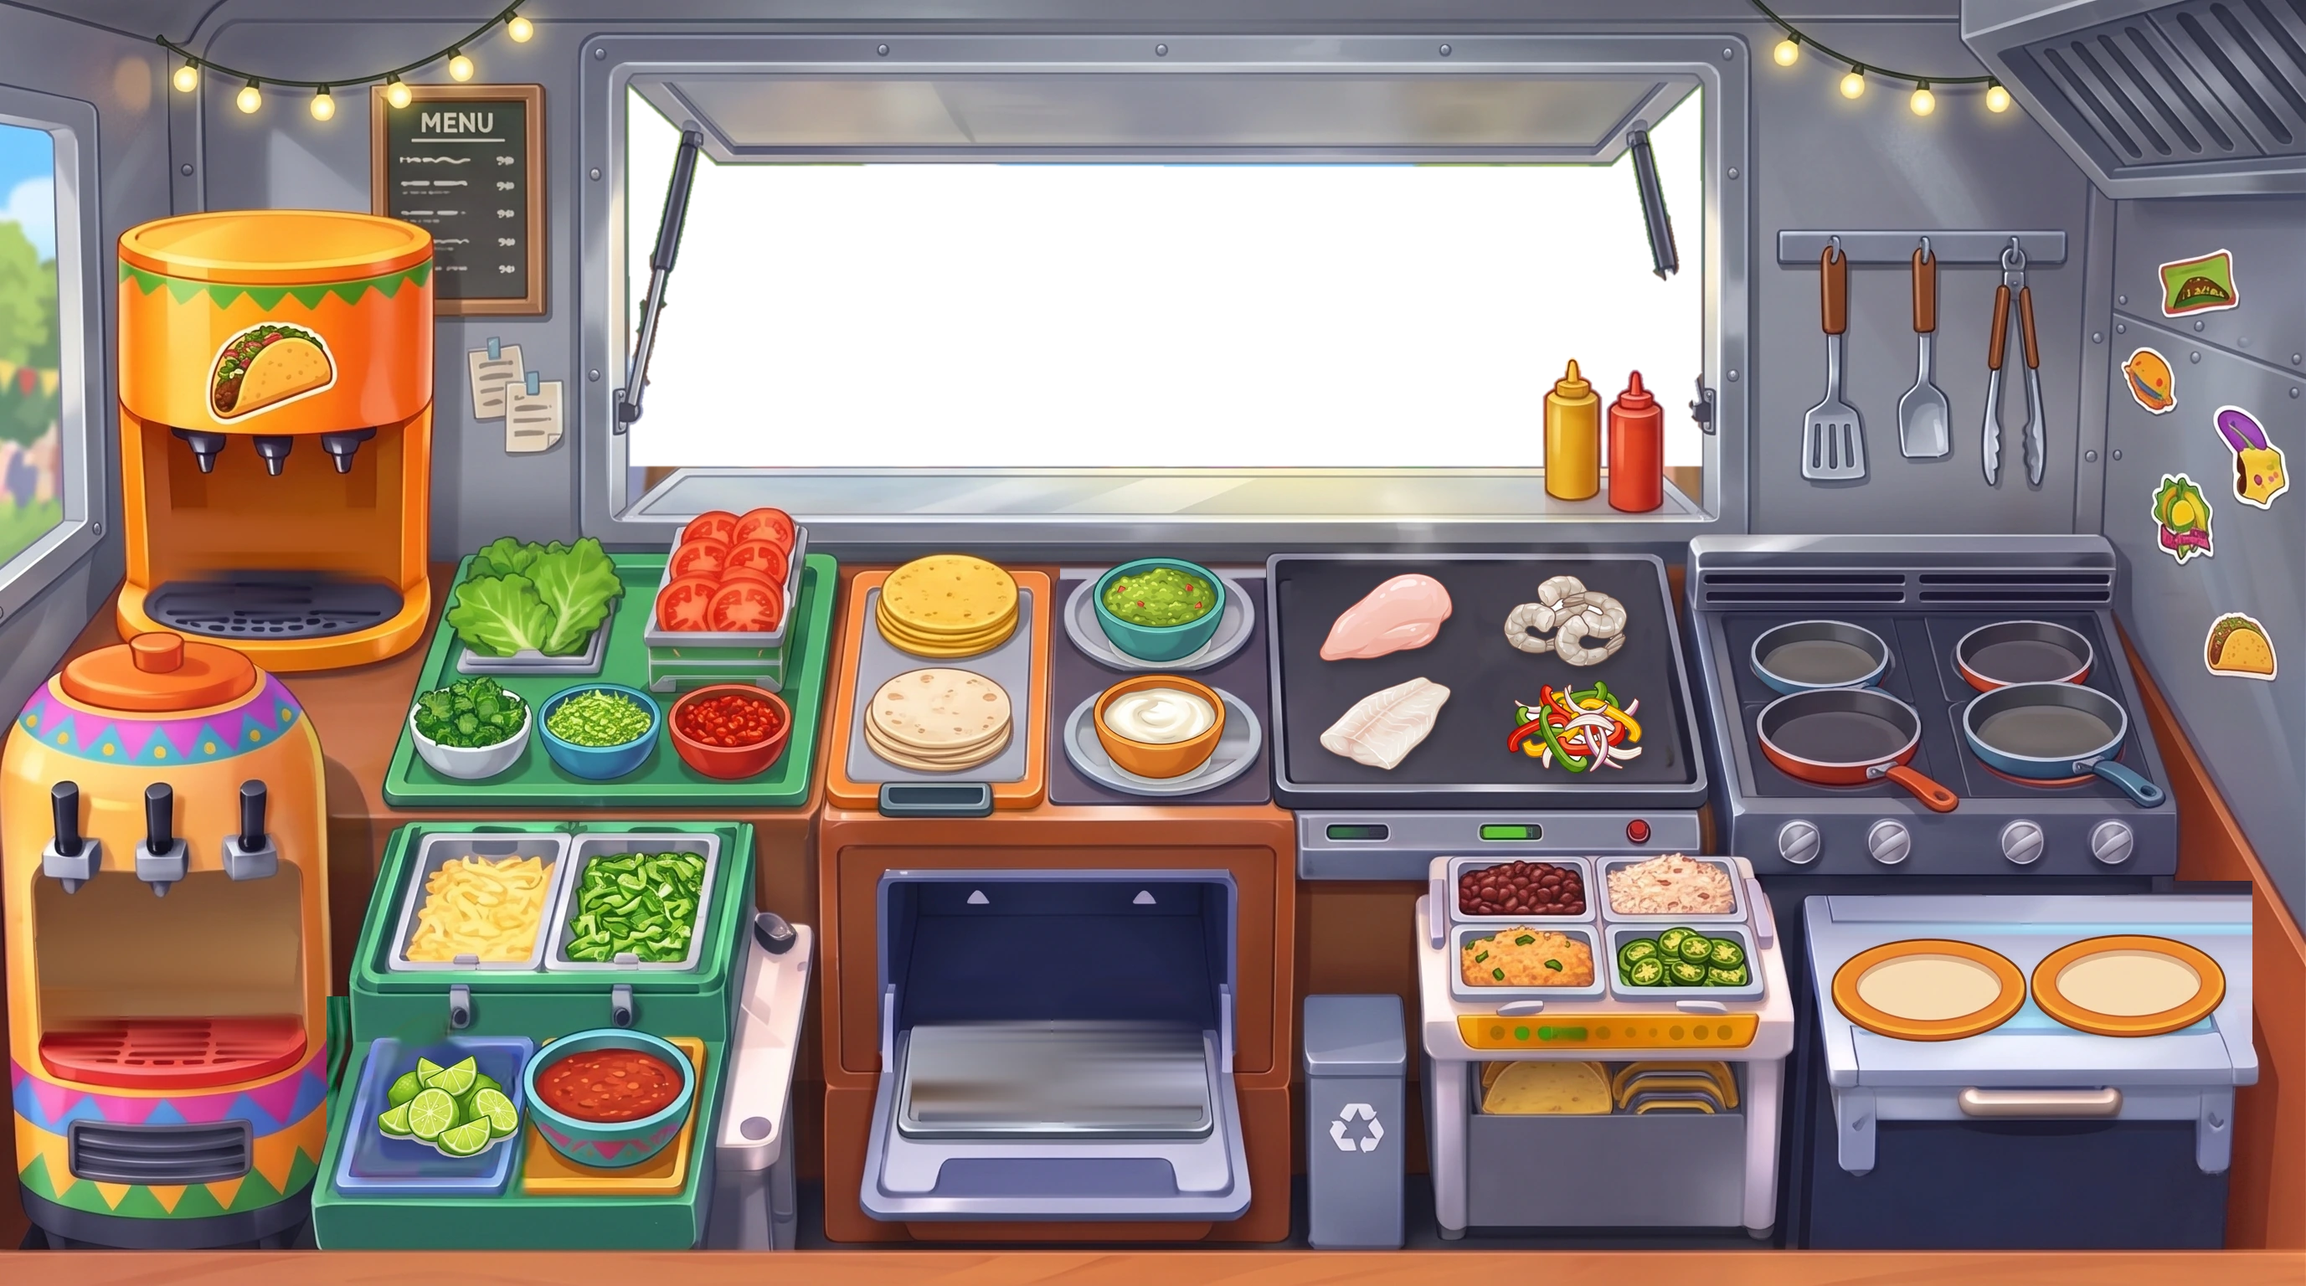
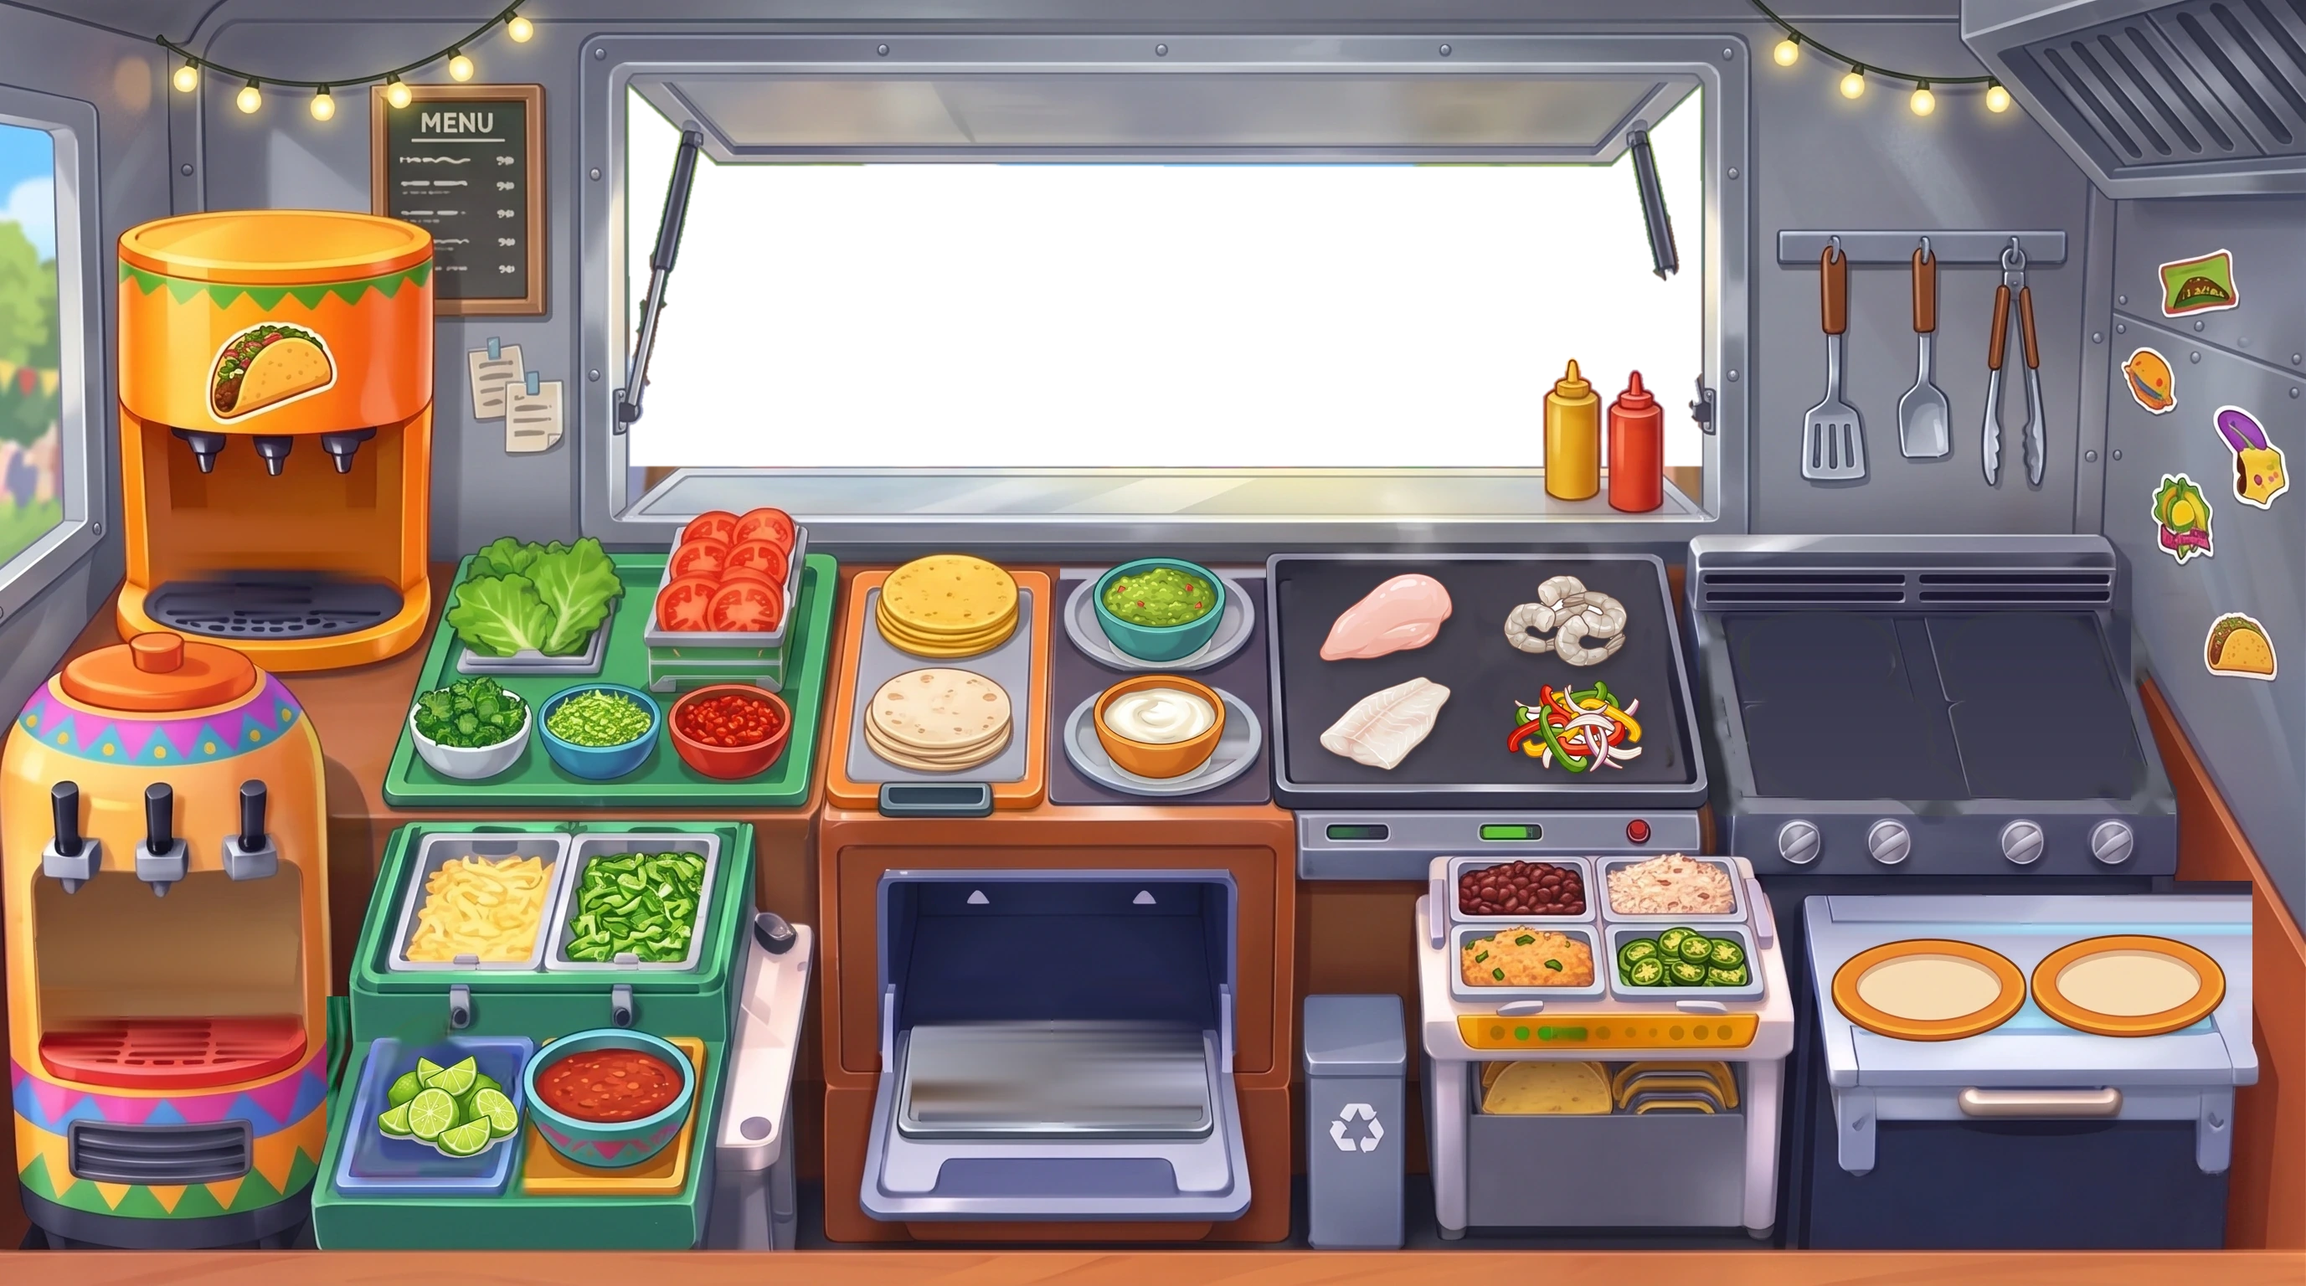
Taco Truck: whole-pan sprites (chicken/fish/shrimp/veggies), pan-less kitchen background, mirrored left pans
Claude-Session: https://claude.ai/code/session_018YusWUuj7FkibTRprC8Hz6

Changed region(s): [[0.7182, 0.4688, 0.9368, 0.625]]

diff --git a/src/views/TacoViews.ts b/src/views/TacoViews.ts
@@ -12,6 +12,8 @@ interface SheetMeta {
   frameHeight: number;
   originX?: number;
   originY?: number;
+  /** Pan-with-food sheets: where the pan (bowl and handle) sits inside every frame, in frame px. */
+  panBox?: { x: number; y: number; w: number; h: number };
 }
 const metas = import.meta.glob('../../public/assets/taco/animations/*.anim.json', { eager: true, import: 'default' }) as Record<string, SheetMeta>;
 const ANIM_DIR = 'assets/taco/animations';
@@ -37,6 +39,22 @@ export function cookFrame(phase: CookPhase, t: number, readyAfter: number): numb
   if (phase === 'cooking') return t < readyAfter * 0.3 ? 0 : t < readyAfter * 0.65 ? 1 : 2;
   return 4;
 }
+/** Frame of a pan-with-food sheet (0 empty, 1 raw, 2 sizzling, 3 browning, 5 ready, 6 burnt). */
+export function panFrame(phase: CookPhase, t: number, readyAfter: number): number {
+  if (phase === 'burnt') return 6;
+  if (phase === 'cooking') return t < readyAfter * 0.12 ? 1 : t < readyAfter * 0.5 ? 2 : 3;
+  return 5;
+}
+/** The four pans (pan index 0 front-left, 1 front-right, 2 back-left, 3 back-right): red on the left, blue on the right. */
+const PAN_COLOURS = ['red', 'blue', 'red', 'blue'];
+/** The left-hand pans are mirrored so their handles point outward and never cross a neighbouring pan. */
+const PAN_FLIPPED = [true, false, true, false];
+/** Sheet whose empty frame (and chicken cooking frames) draw the pan itself. */
+const PAN_PROTEIN = 'chicken';
+/** A pan with its handle is about this much wider than the pan's tap zone (which covers the bowl). */
+const PAN_WIDTH_PER_ZONE = 1.23;
+const panMetas = new Map<string, SheetMeta>(Object.values(metas).filter((m) => m.panBox).map((m) => [m.key, m]));
+
 /** Oven shell frame (1 folded, 2 warm, 3 golden ready, 4 burnt). */
 export function shellFrame(phase: CookPhase, t: number, readyAfter: number): number {
   if (phase === 'burnt') return 4;
@@ -55,11 +73,14 @@ interface Slot {
  */
 export class TacoViews {
   private pans: (Slot | null)[];
+  /** The pan itself (always drawn: empty when idle, with the food in it for chicken). */
+  private panBase: (Slot | null)[];
   private ovens: (Slot | null)[];
   private plates: (Slot | null)[];
 
   constructor(private scene: Phaser.Scene, private bg: BackgroundPlacement, private s: TacoKitchenState) {
     this.pans = s.pans.map(() => null);
+    this.panBase = s.pans.map(() => null);
     this.ovens = s.ovens.map(() => null);
     this.plates = s.plates.map(() => null);
   }
@@ -67,15 +88,26 @@ export class TacoViews {
   sync(): void {
     const s = this.s;
     s.pans.forEach((p, i) => {
-      if (!p) return this.put(this.pans, i, 'pan', null);
-      if (p.what.kind === 'protein') {
-        const def = s.taco.proteins[p.what.protein];
-        this.put(this.pans, i, 'pan', { sheet: `cook_${p.what.protein}`, frame: cookFrame(p.phase, p.t, def.readyAfter), phase: p.phase });
-      } else {
-        const it = p.what.item;
-        const ready = p.phase !== 'cooking';
-        this.put(this.pans, i, 'pan', this.itemFace(it, ready ? 5 : 4, ready ? p.phase : 'cooking'));
+      const zone = this.zones('pan').find((q) => q.index === i);
+      let baseFrame = 0;
+      let phase: CookPhase = 'cooking';
+      let food: Face | null = null;
+      let panProtein = PAN_PROTEIN; // whole-pan art for this protein, when a sheet exists in this pan's colour
+      if (p) {
+        phase = p.phase;
+        if (p.what.kind === 'protein') {
+          const def = s.taco.proteins[p.what.protein];
+          if (panMetas.has(`pan_${PAN_COLOURS[i] ?? 'red'}_${p.what.protein}`)) {
+            panProtein = p.what.protein;
+            baseFrame = panFrame(p.phase, p.t, def.readyAfter);
+          } else food = { sheet: `cook_${p.what.protein}`, frame: cookFrame(p.phase, p.t, def.readyAfter), phase: p.phase };
+        } else {
+          const ready = p.phase !== 'cooking';
+          food = this.itemFace(p.what.item, ready ? 5 : 4, ready ? p.phase : 'cooking');
+        }
       }
+      if (zone) this.putPan(this.panBase, i, zone, `pan_${PAN_COLOURS[i] ?? 'red'}_${panProtein}`, baseFrame, `${i}:${panProtein}:${baseFrame}`, phase, PAN_FLIPPED[i] ?? false);
+      this.put(this.pans, i, 'pan', food);
     });
     s.ovens.forEach((o, i) => {
       if (!o) return this.put(this.ovens, i, 'oven', null);
@@ -89,7 +121,7 @@ export class TacoViews {
   }
 
   destroy(): void {
-    for (const list of [this.pans, this.ovens, this.plates]) list.forEach((x) => x?.img.destroy());
+    for (const list of [this.pans, this.panBase, this.ovens, this.plates]) list.forEach((x) => x?.img.destroy());
   }
 
   /** What an item looks like: the finished dish sprite, or its build sheet frame (`forceFrame` overrides the frame). */
@@ -107,6 +139,28 @@ export class TacoViews {
 
   private zones(kind: 'pan' | 'oven' | 'plate'): TacoZone[] {
     return this.s.taco.zones.filter((z) => z.action === kind);
+  }
+
+  /** Draw a whole pan (with the food in it) exactly over the kitchen's pan: top-left of the pan on the top-left of the tap zone. */
+  private putPan(list: (Slot | null)[], i: number, z: TacoZone, name: string, frame: number, key: string, phase: CookPhase, flip: boolean): void {
+    const meta = panMetas.get(name)!;
+    const box = meta.panBox!;
+    let slot = list[i];
+    if (!slot || slot.key !== key) {
+      slot?.img.destroy();
+      const img = this.scene.add.image(0, 0, sheetKey(name), frame)
+        .setOrigin(0, 0)
+        .setDepth(DEPTH - 1)
+        .setFlipX(flip);
+      slot = { img, key };
+      list[i] = slot;
+    }
+    const scale = (z.width * this.bg.width * PAN_WIDTH_PER_ZONE) / box.w;
+    slot.img.setScale(scale);
+    // Mirrored pans line their right edge up with the zone's right edge, so the handle sticks out to the left.
+    const left = flip ? this.bg.x + (z.x + z.width) * this.bg.width - (meta.frameWidth - box.x) * scale : this.bg.x + z.x * this.bg.width - box.x * scale;
+    slot.img.setPosition(left, this.bg.y + z.y * this.bg.height - box.y * scale);
+    slot.img.setTint(phase === 'danger' ? 0xffb080 : 0xffffff);
   }
 
   private put(list: (Slot | null)[], i: number, kind: 'pan' | 'oven' | 'plate', face: Face | null): void {
@@ -128,13 +182,16 @@ export class TacoViews {
       img.setDepth(DEPTH).setOrigin(0.5, 0.95);
       slot = { img, key };
       list[i] = slot;
-      // Size to the zone. The food in a sheet frame fills about 70% of the frame width (the rest is steam room),
-      // so pan and oven food is scaled until that part is about 80% of the pan; a plate item is 80% of the plate zone.
+      // Size to the zone. The food in a sheet frame fills about 75% of the frame width (the rest is steam room),
+      // so pan and oven food is scaled until that part is about 68% of the zone width (the pan bowl is a little narrower than its zone); a plate item is 80% of the plate zone.
       const zw = z.width * this.bg.width;
-      const scale = kind === 'plate' ? (zw * 0.8) / img.width : (zw * 0.8) / (img.width * 0.7);
+      const scale = kind === 'plate' ? (zw * 0.8) / img.width : (zw * (kind === 'pan' && z.height > 0.075 ? 0.62 : 0.66)) / (img.width * 0.75);
       img.setScale(scale);
     }
-    slot.img.setPosition(this.bg.x + (z.x + z.width / 2) * this.bg.width, this.bg.y + (z.y + z.height * 0.9) * this.bg.height);
+    // Pan and oven food sits low-centre in the bowl; plate items sit near the bottom of their zone.
+    const front = z.height > 0.075; // the two front pans are drawn bigger and lower than the back pair
+    const baseline = kind === 'plate' ? 0.9 : kind === 'pan' && front ? 0.88 : 0.8;
+    slot.img.setPosition(this.bg.x + (z.x + z.width / 2) * this.bg.width, this.bg.y + (z.y + z.height * baseline) * this.bg.height);
     slot.img.setTint(face.phase === 'danger' ? 0xffb080 : 0xffffff);
   }
 }

diff --git a/tools/taco_source/import_pan_sheet.py b/tools/taco_source/import_pan_sheet.py
@@ -1,0 +1,86 @@
+"""Turn a Gemini 'pan with food' sheet (pure green background, 4 x 2 equal cells, no divider lines, 7 frames)
+into a game sheet plus its .anim.json.
+
+Usage: python3 -I tools/taco_source/import_pan_sheet.py <gemini.png> <colour> <protein>
+Frames: 0 empty, 1 raw, 2 sizzling, 3 browning, 4 flipping, 5 cooked ready, 6 burnt.
+Output (public/assets/taco/animations/): pan_<colour>_<protein>_sheet.webp (4 x 2 cells of 560 x 480, transparent) and
+pan_<colour>_<protein>_sheet.anim.json, whose `panBox` is where the pan itself sits inside every frame (all frames are aligned
+on the pan's left and bottom edge, and the pan is scaled to 400 px wide), so the game can place it exactly over the kitchen's pan.
+"""
+import json
+import sys
+import numpy as np
+from PIL import Image
+from scipy import ndimage as ndi
+
+COLS, ROWS = 4, 2
+FW, FH = 560, 480
+PAN_W, LEFT, BOTTOM = 400, 60, 470
+src, colour, protein = sys.argv[1], sys.argv[2], sys.argv[3]
+im = np.array(Image.open(src).convert('RGB')).astype(float)
+H, W = im.shape[:2]
+cw, ch = W // COLS, H // ROWS
+
+
+def key(cell):
+    r, g, b = cell[..., 0], cell[..., 1], cell[..., 2]
+    dom = g - np.maximum(r, b)
+    bgdom = float(np.median(np.concatenate([dom[:12, :12].ravel(), dom[-12:, :12].ravel(), dom[:12, -12:].ravel(), dom[-12:, -12:].ravel()])))
+    bgcol = np.array([np.median(cell[:12, :12, c]) for c in range(3)])
+    strict = dom > 0.8 * bgdom
+    lab, n = ndi.label(strict)
+    sizes = ndi.sum(strict, lab, range(1, n + 1))
+    bg = np.isin(lab, [i + 1 for i, s in enumerate(sizes) if s > 150])
+    grown = ndi.binary_dilation(bg, iterations=90)
+    near = (ndi.binary_dilation(bg, iterations=14) & (dom > 0.08 * bgdom)) | (grown & (g > 190) & (dom > 0.06 * bgdom)) | (grown & (dom > 0.12 * bgdom) & (np.abs(r - b) < 25))
+    alpha = np.where(near, np.clip(1 - dom / bgdom, 0, 1), 1.0)
+    alpha[bg] = 0
+    alpha[ndi.binary_dilation(bg, iterations=30) & (dom > 0.3 * bgdom) & (g > 100)] = 0
+    a = np.maximum(alpha, 1e-3)[..., None]
+    rgb = np.clip(np.where(near[..., None], (cell - (1 - a) * bgcol) / a, cell), 0, 255)
+    rgb[..., 1] = np.where(near, np.minimum(rgb[..., 1], np.maximum(rgb[..., 0], rgb[..., 2]) + 12), rgb[..., 1])
+    return Image.fromarray(np.dstack([rgb, alpha * 255]).astype(np.uint8))
+
+
+def drop_strays(img):
+    """Gemini's frames overlap their cell borders, so a bit of the neighbouring frame's food can sit under the pan.
+    Keep only pieces that touch the pan or sit above it (steam, sparks, flying food); drop pieces lying below the pan's bottom edge."""
+    a = np.array(img)
+    lab, n = ndi.label(a[..., 3] > 20)
+    if n < 2:
+        return img
+    sizes = ndi.sum(a[..., 3] > 20, lab, range(1, n + 1))
+    main = int(np.argmax(sizes)) + 1
+    ys = np.where((lab == main).any(axis=1))[0]
+    bottom = ys.max()
+    for i, sl in enumerate(ndi.find_objects(lab), start=1):
+        if i != main and sl[0].start >= bottom - 10:
+            a[lab == i] = 0
+    return Image.fromarray(a)
+
+
+frames = []
+for i in range(7):
+    c, r = i % COLS, i // COLS
+    frames.append(drop_strays(key(im[r * ch:(r + 1) * ch, c * cw:(c + 1) * cw])))
+solid = [f.getchannel('A').point(lambda v: 255 if v > 200 else 0).getbbox() for f in frames]
+# scale so the empty pan (frame 0) is PAN_W wide, then line every frame up on the pan's left and bottom edge
+scale = PAN_W / (solid[0][2] - solid[0][0])
+sheet = Image.new('RGBA', (FW * COLS, FH * ROWS), (0, 0, 0, 0))
+for i, (f, b) in enumerate(zip(frames, solid)):
+    f2 = f.resize((round(f.width * scale), round(f.height * scale)), Image.LANCZOS)
+    left, bottom = round(b[0] * scale), round(b[3] * scale)
+    cell = Image.new('RGBA', (FW, FH), (0, 0, 0, 0))
+    cell.alpha_composite(f2, (LEFT - left, BOTTOM - bottom)) if LEFT - left >= 0 and BOTTOM - bottom >= 0 else cell.paste(f2, (LEFT - left, BOTTOM - bottom))
+    sheet.alpha_composite(cell, ((i % COLS) * FW, (i // COLS) * FH))
+pan_h = round((solid[0][3] - solid[0][1]) * scale)
+name = f'pan_{colour}_{protein}'
+sheet.save(f'public/assets/taco/animations/{name}_sheet.webp', 'WEBP', quality=90, method=6)
+meta = {
+    'key': name, 'image': f'{name}_sheet.webp', 'frameWidth': FW, 'frameHeight': FH, 'columns': COLS, 'rows': ROWS, 'frameCount': 7,
+    'frameLabels': ['empty', 'raw', 'sizzling', 'browning', 'flipping', 'cooked_ready', 'burnt'],
+    'panBox': {'x': LEFT, 'y': BOTTOM - pan_h, 'w': PAN_W, 'h': pan_h},
+    'note': 'Pan and food drawn together; panBox is the pan (bowl and handle) in every frame. Frames 1-3 cook, 5 ready, 6 burnt.',
+}
+json.dump(meta, open(f'public/assets/taco/animations/{name}_sheet.anim.json', 'w'), indent=1)
+print(name, sheet.size, 'scale', round(scale, 3), 'panBox', meta['panBox'])

diff --git a/tools/taco_source/remove_pans.py b/tools/taco_source/remove_pans.py
@@ -1,0 +1,36 @@
+"""Paint the four painted pans (and handles) out of the Taco Truck kitchen so pan sprites can be drawn instead.
+
+Usage: python3 -I tools/taco_source/remove_pans.py <composite_kitchen.png> <out_front.webp> [preview.png]
+The composite is back + front layers flattened (2754 x 1536). The new RGB is applied to kitchen_front.webp keeping its own
+alpha (the window cut-out), so customers still show through the window.
+"""
+import sys
+import cv2
+import numpy as np
+from PIL import Image
+
+W, H = 2754, 1536
+OX, OY = 1983, 614  # crop origin: the stove area
+comp = np.array(Image.open(sys.argv[1]).convert('RGB'))
+assert comp.shape[:2] == (H, W)
+
+# (centre x, centre y, radius x, radius y) of each bowl in full-image px; handles as (x1, y1, x2, y2, thickness)
+BOWLS = [(OX + 190, OY + 170, 98, 60), (OX + 436, OY + 170, 92, 56), (OX + 212, OY + 262, 112, 66), (OX + 458, OY + 262, 112, 66)]
+HANDLES = [(OX + 265, OY + 300, OX + 362, OY + 340, 30), (OX + 505, OY + 300, OX + 605, OY + 340, 30)]
+mask = np.zeros((H, W), np.uint8)
+for cx, cy, rx, ry in BOWLS:
+    cv2.ellipse(mask, (cx, cy), (rx, ry), 0, 0, 360, 255, -1)
+for x1, y1, x2, y2, t in HANDLES:
+    cv2.line(mask, (x1, y1), (x2, y2), 255, t)
+out = cv2.inpaint(comp, mask, 9, cv2.INPAINT_TELEA)
+if len(sys.argv) > 3:
+    Image.fromarray(out[OY - 20:OY + 400, OX - 20:OX + 690]).save(sys.argv[3])
+    ov = comp.copy()
+    ov[mask > 0] = (0.5 * ov[mask > 0] + 0.5 * np.array([255, 0, 255])).astype(np.uint8)
+    Image.fromarray(ov[OY - 20:OY + 400, OX - 20:OX + 690]).save(sys.argv[3].replace('.png', '_mask.png'))
+front = Image.open('public/assets/taco/background/kitchen_front.webp').convert('RGBA')
+alpha = front.getchannel('A')
+res = Image.fromarray(out).convert('RGBA')
+res.putalpha(alpha)
+res.save(sys.argv[2], 'WEBP', quality=92, method=6)
+print('saved', sys.argv[2])

diff --git a/HANDOFF.md b/HANDOFF.md
@@ -560,3 +560,5 @@ Start from the latest `main`, inspect the current repository and docs first, and
 - Not done in 4b: lazy leave clips (ghost_leave_happy/angry) are not used, ghosts just fade; no sounds yet. 4c next: drinks (cups, fill, serveFromPour).
 
 - Art swap (uncommitted): user supplied Gemini cook sheets (green background, 3168x1344, 4x2) for chicken, shrimp, fish, veggies. Converted with tools/taco_source/import_cook_sheet.py (chroma key, resize to 1712x782, 428x391 cells, base anchored at y=372; 'loose' mode for non-veggies). Replaced public/assets/taco/animations/cook_<protein>_sheet.webp. The ready frame is now one piece. anim.json files unchanged (same frame size/count). Originals are in git history.
+- Pan alignment fix (uncommitted): pan food scaled to ~66% of zone width (62% for the two bigger front pans) and anchored lower (0.8 back / 0.88 front) so it sits inside each bowl. Checked with ?debug zone outlines in headless browser; oven/plate not re-checked.
+- Pan sheets (uncommitted, WORKING): pans are removed from public/assets/taco/background/kitchen_front.webp (tools/taco_source/remove_pans.py) and drawn by TacoViews.putPan() from pan_<colour>_chicken_sheet.webp (import_pan_sheet.py clips stray bits under the pan). Colours by zone: front-left red, front-right blue, back-left red, back-right blue; left-hand pans are mirrored so handles point outward; the empty pan frame is always drawn. Chicken uses the pan sheet frames; shrimp/fish/veggies/press items still use the food-only overlay (offsets tuned for old painted pans - re-check). Whole-pan sheets now exist for chicken (red+blue), fish (red), shrimp (blue), veggies (red); TacoViews uses a sheet only when one exists in the zone's colour, else food overlay on the chicken pan. TODO: Gemini sheets for red shrimp, blue fish, blue veggies, cleaner empty-pan frame, regenerate taco_thumb from new background. Checks: typecheck, 399 tests, build pass.
